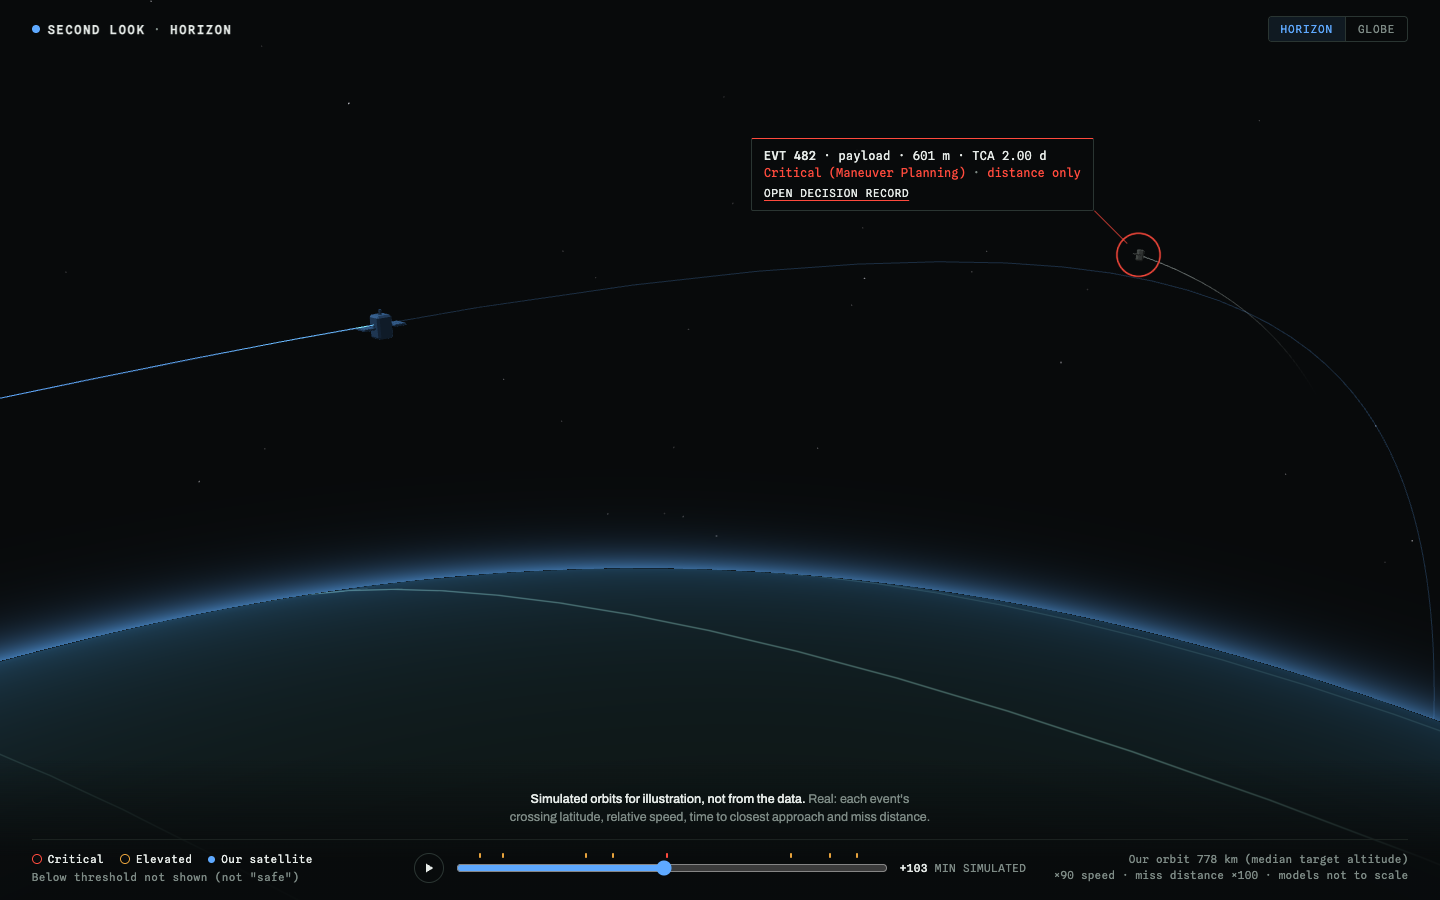
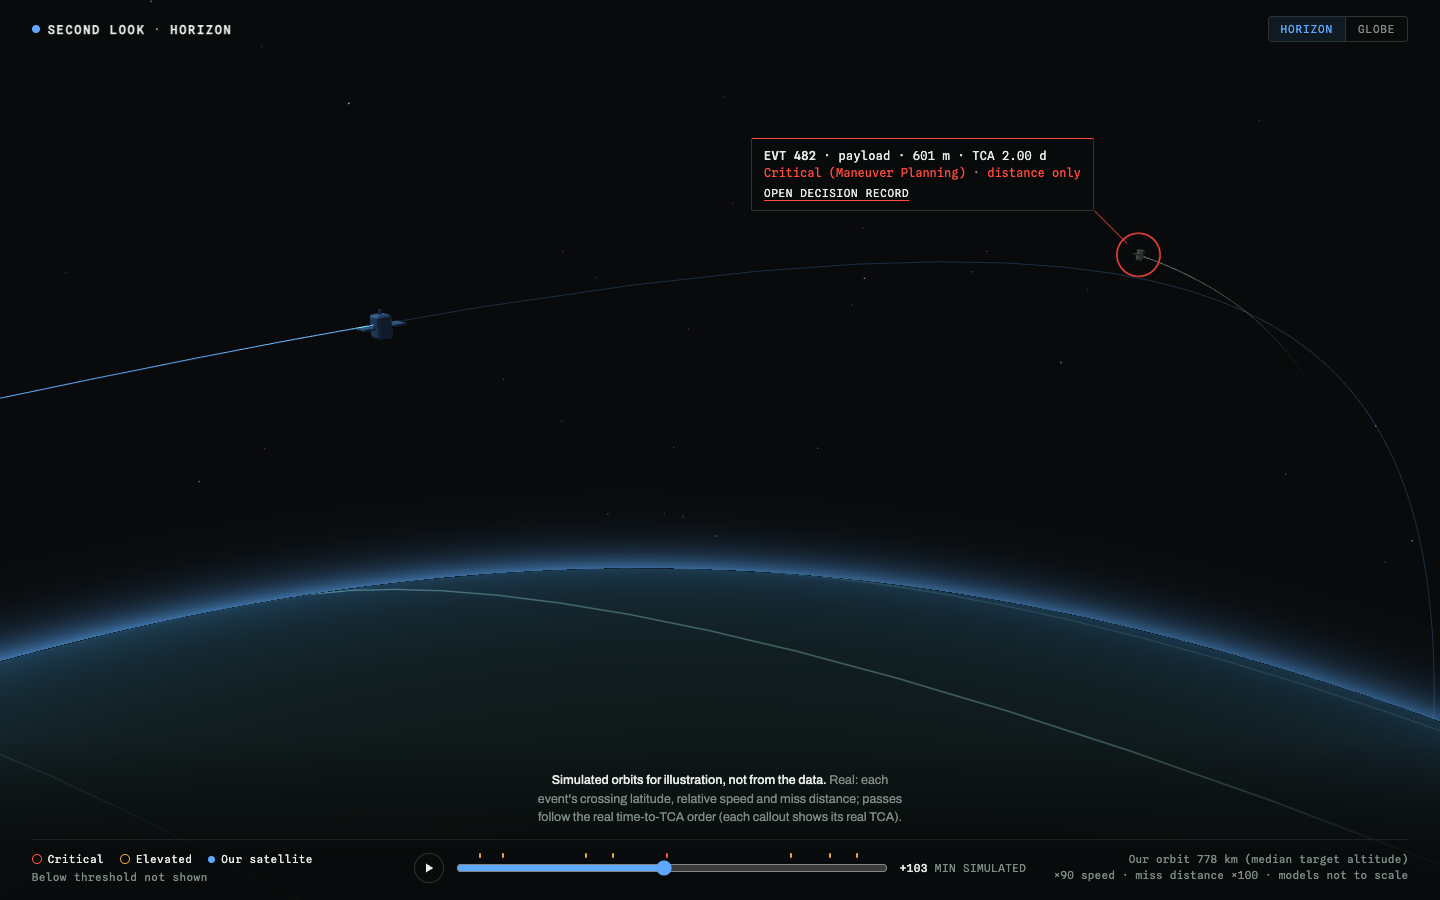
Horizon: honest TCA wording, drop "safe", Pc-backed only for Critical
- Honesty line: crossing latitude, relative speed and miss distance are real;
  passes follow the real time-to-TCA order (callouts show the real TCA).
- Legend: "Below threshold not shown".
- Callout basis: Critical "Pc-backed" (Pc bound >= 1e-4) or "distance only";
  Elevated "Pc band", "distance", or "Pc band + distance" when both apply.

Changed region(s): [[0.3438, 0.84, 0.6562, 0.9333], [0.1562, 0.9644, 0.1875, 0.9956]]

diff --git a/static/horizon.html b/static/horizon.html
@@ -38,13 +38,13 @@ FINISH: unreviewed and undocumented is unfinished; this build ends with the fini
 
 <footer class="hz-bottom">
   <p class="honesty"><strong>Simulated orbits for illustration, not from the data.</strong>
-    Real: each event's crossing latitude, relative speed, time to closest approach and miss distance.</p>
+    Real: each event's crossing latitude, relative speed and miss distance; passes follow the real time-to-TCA order (each callout shows its real TCA).</p>
   <div class="bar">
     <ul class="legend" aria-label="Legend">
       <li><span class="ring crit" aria-hidden="true"></span>Critical</li>
       <li><span class="ring elev" aria-hidden="true"></span>Elevated</li>
       <li><span class="dot own" aria-hidden="true"></span>Our satellite</li>
-      <li class="muted">Below threshold not shown (not "safe")</li>
+      <li class="muted">Below threshold not shown</li>
     </ul>
     <div class="transport">
       <button type="button" id="play" class="play" aria-label="Pause replay" aria-pressed="true">

diff --git a/static/js/horizon-orbits.js b/static/js/horizon-orbits.js
@@ -142,9 +142,14 @@ export function visibility(enc, tau) {
 }
 const smooth = (x) => { const t = Math.max(0, Math.min(1, x)); return t * t * (3 - 2 * t); };
 
-/** Pc-backed: the Pc upper bound on its own reaches the event's tier (>= 1e-4 Critical, >= 1e-6 Elevated). */
+/** What drives the tier (thresholds as in triage/tiers.py).
+ *  Critical: "Pc-backed" (Pc bound >= 1e-4) or "distance only" (miss < 1 km alone).
+ *  Elevated: "Pc band" (Pc bound in [1e-6, 1e-4)) and/or "distance" (miss 1-5 km). */
 export function basis(e) {
   const pc = e.latest.max_risk_estimate_log10;
-  const bar = e.tier >= 2 ? -4 : -6;
-  return pc != null && pc >= bar ? "Pc-backed" : "distance only";
+  const miss = e.latest.miss_distance_m;
+  if (e.tier >= 2) return pc != null && pc >= -4 ? "Pc-backed" : "distance only";
+  const byPc = pc != null && pc >= -6;
+  const byMiss = miss != null && miss <= 5000;
+  return byPc && byMiss ? "Pc band + distance" : byPc ? "Pc band" : "distance";
 }
